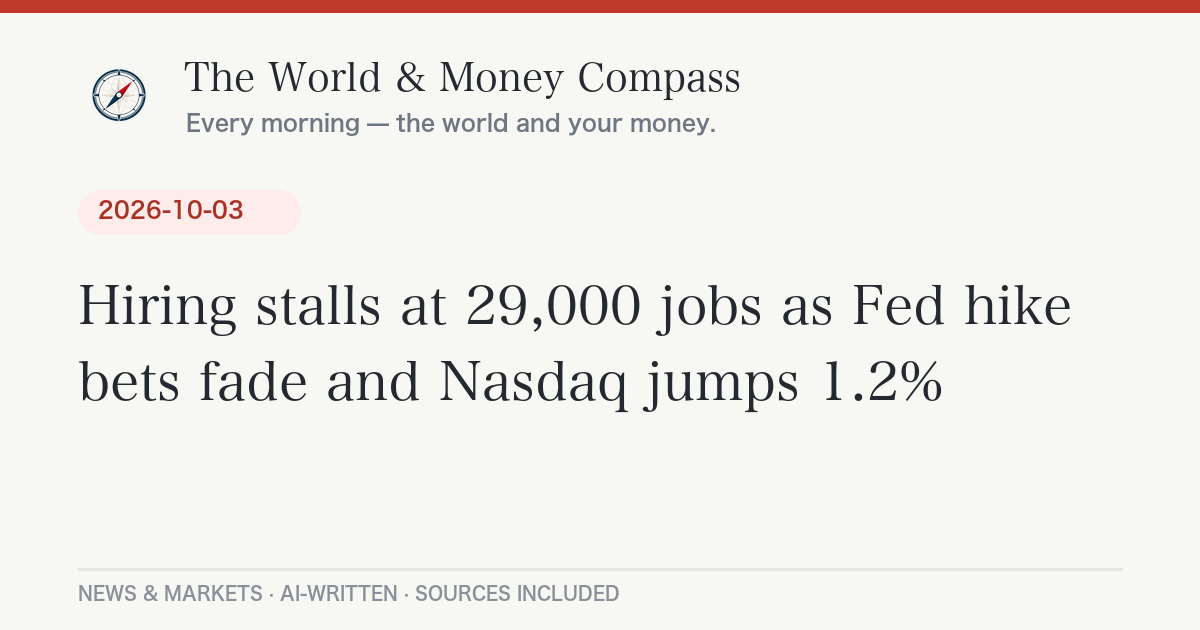
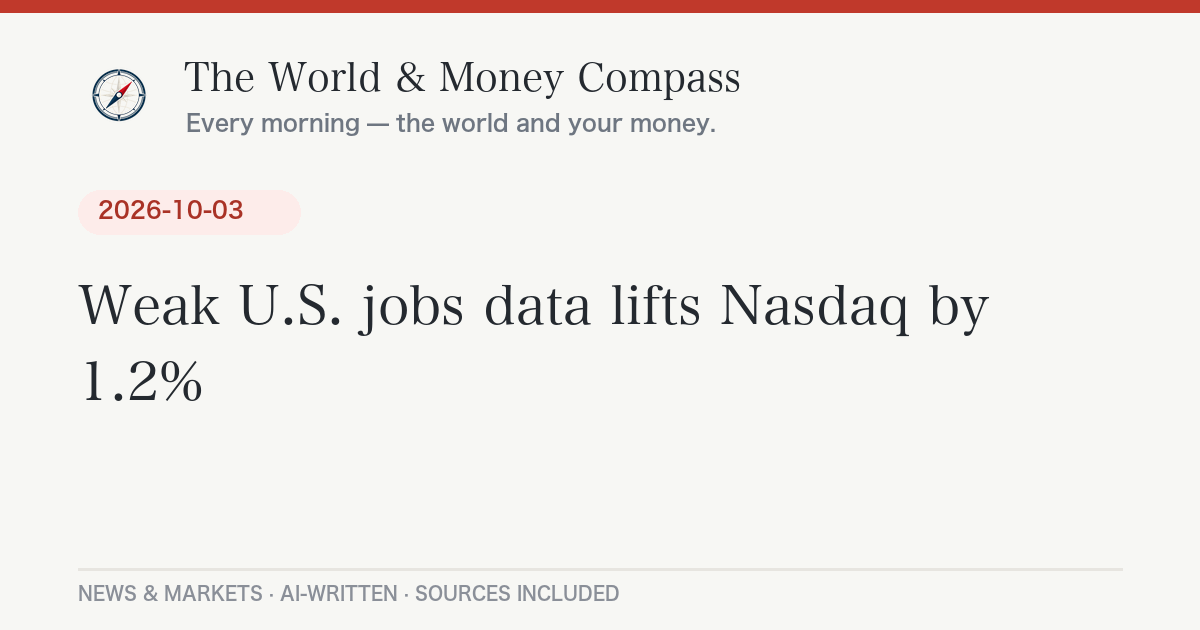
Daily briefing 2026-10-05

Changed region(s): [[0.0617, 0.4524, 0.8942, 0.5429], [0.0617, 0.573, 0.8017, 0.6635]]

diff --git a/_posts/2026-10-05-daily-briefing.md b/_posts/2026-10-05-daily-briefing.md
@@ -1,0 +1,106 @@
+---
+layout: post
+lang: ja
+title: "ブラジル大統領選は決選投票へ、ボルソナロ氏が首位｜10月5日のニュースとお金"
+date: 2026-10-05 07:43:22 +0900
+categories: [ニュース, 経済]
+headline: "ブラジル大統領選は決選投票へ、ボルソナロ氏が首位"
+permalink: /2026/10/05/daily-briefing/
+---
+
+## 今日のポイント
+
+4日に投票があったブラジル大統領選は、右派のフラビオ・ボルソナロ上院議員が開票でルラ大統領をリードしたものの、過半数には届かず、25日の決選投票にもつれこむ見通しです。中東ではホルムズ海峡周辺でタンカーへの攻撃が週末も続き、週明けの原油先物は小幅高で始まりました。日本ではきょう臨時国会が召集され、高市首相の所信表明演説が行われます。
+
+## 今日の羅針盤（Compass Insight）
+
+週末のニュースを並べると、「政治の不確実性」が世界中で同時に高まっていることがわかります。ブラジルは3週間後の決選投票まで先が見えず、スペインではサンチェス首相が解散・総選挙を検討し、米国は11月の中間選挙を前にイランとの対立が長引いています。こうした局面では、マーケットは「どちらに決まるか」よりも「決まらない期間」そのものを嫌い、通貨や原油の値動きが荒くなりやすくなります。
+
+家計の目線で見ると、いちばん身近なのは原油です。北海ブレントは1バレル100ドルを超えたままで、イラン側は自らの条件が満たされない限りホルムズ海峡を開かないと繰り返しています。暖房シーズンを前に、灯油・ガソリン代や電気・ガス料金がすぐには下がりにくい状況と考えておくのが無難です。円も1ドル157円台の円安水準で、輸入品の価格には上向きの力がかかり続けています。
+
+短期では、6日の植田日銀総裁の講演で追加利上げに前向きな発言が出るか、そして米国のISM非製造業景況指数とFOMC議事要旨に注目です。日経平均は節目の7万円が視野に入る一方、米長期金利は5%台と高く、株高と金利高が同時に進む「ねじれ」が続いています。中長期では、ブラジル決選投票の結果が新興国通貨の流れを、米・イラン関係の行方が原油価格を左右する可能性があります。
+
+## 今日のニュース
+
+### 日本
+
+- **きょう臨時国会召集、高市首相が所信表明**：臨時国会は5日に召集され、会期は12月12日までの69日間。首相の所信表明演説は召集日当日に行われ、各党の代表質問は7〜9日の予定です（[山陰中央新報](https://www.sanin-chuo.co.jp/articles/-/1088585)）。食料品の消費税率を引き下げる法案など21本の法案が提出される見込みです（[NHK](https://news.web.nhk/newsweb/na/nd-20261001de53589)）。
+- **那覇のホテル女性遺体、強盗殺人容疑で米海兵隊員を逮捕**：沖縄県警は4日、那覇市のホテルで3日未明に女性（39）を殺害し財布などを奪ったとして、米軍普天間基地所属の海兵隊上等兵（20）を強盗殺人容疑で逮捕しました。容疑者は「私は知りません」と否認しています（[時事ドットコム](https://www.jiji.com/jc/article?k=2026100400094&g=soc)／[NHK](https://news.web.nhk/newsweb/na/nd-20261004de54172)）。日米地位協定や基地負担をめぐる議論が再燃しそうです。
+- **台風27号、小笠原近海で高波に警戒**：大型で強い台風27号は北上して週明けに小笠原諸島に最も近づく見込みで、4日以降の高波に警戒が呼びかけられています（[NHK](https://news.web.nhk/newsweb/na/nd-20261003de54005)）。
+
+### 世界
+
+- **ブラジル大統領選、決選投票へ**：開票が約65%進んだ時点で、フラビオ・ボルソナロ氏が有効票の49.58%、ルラ大統領が42.25%となり、どちらも当選に必要な過半数に届きませんでした（[Wikipedia：2026 Brazilian general election](https://en.wikipedia.org/wiki/2026_Brazilian_general_election)）。決選投票は10月25日に行われます（[Latin Times](https://www.latintimes.com/live-lula-vs-flavio-bolsonaro-what-tonights-first-round-results-brazil-could-mean-oct-25-599811)）。開票序盤はボルソナロ氏の地盤である南部の集計が早く、ルラ氏が強い北東部の集計は遅れる傾向があったため、最終的な差はこれより縮む可能性があります（[Rio Times](https://www.riotimesonline.com/brazil-election-first-round-results-lula-flavio-2026)）。
+- **ホルムズ海峡周辺、週末もタンカー被弾**：オマーンとイラン近海で週末に少なくとも2隻が被弾しました。イランのガリバフ国会議長は、米国の「侵略行為」の停止、港湾の海上封鎖の解除、凍結資産の返還といった条件が満たされない限り、ホルムズ海峡は再開しないと述べています（[CNBC](https://www.cnbc.com/2026/10/04/more-tankers-struck-in-gulf-waters-as-iran-reiterates-conditions.html)）。米国は3隻目の空母打撃群と海兵隊2,000人を中東へ向かわせています（[Northeast Times](https://northeasttimes.com/2026/10/01/u-s-sends-carrier-group-and-2-000-marines-toward-middle-east-as-tanker-is-hit/)）。
+
+### アメリカ
+
+- **最高裁がきょう新会期入り、初日は気候変動訴訟**：連邦最高裁は5日、コロラド州ボルダー郡などが石油大手サンコアを訴えた気候変動訴訟の口頭弁論で新会期を始めます。会期中には銃規制、信教の自由、選挙法などの重要案件も控えています（[米最高裁 10月の弁論日程](https://www.supremecourt.gov/oral_arguments/argument_calendars/MonthlyArgumentCalOctober2026.pdf)／[Federalist Society](https://fedsoc.org/events/supreme-court-preview-what-is-in-store-for-october-term-2026)）。
+- **雇用の伸びが鈍化、利上げ観測が後退**：2日発表の9月雇用統計では、非農業部門の雇用者数が2万9,000人増にとどまり、失業率は4.2%に上がりました。これで近い時期の利上げ観測が弱まった一方、10年国債利回りは5.28%と高止まりしています（[Vista Partners](https://vistapglobal.com/weekly-market-summary-october-2-2026-stocks-finish-higher-as-soft-jobs-data-reframes-fed-outlook-amd-avgo-f-googl-hpp-lpl-nvda-ser-soc-tsla/)）。
+
+### ヨーロッパ
+
+- **キーウの橋に4日連続の攻撃**：ロシア軍は4日、ドニプロ川にかかる北橋を再びドローンで攻撃し、路面と暖房用の配管が損傷して市内の一部で温水の供給が止まりました（[Kyiv Independent](https://kyivindependent.com/russia-targets-kyiv-bridges-for-fourth-consecutive-day-hits-northern-bridge/)）。ゼレンスキー大統領によると、ロシアはこの1週間でドローン1,900機超、誘導爆弾1,700発、ミサイル25発を使ったとしています（同）。
+- **スペイン、サンチェス首相が解散を検討**：議会が政府の住宅対策の政令2本を否決したことを受け、サンチェス首相は4日、閣僚や与党幹部と協議しました。すぐに解散すれば最短で11月29日投票となり、その場合は5日（月）中に決断を表明する必要があります（[Euronews](https://www.euronews.com/2026/10/04/sanchez-in-talks-with-coalition-partners-on-reflection-day-will-he-call-elections-in-spain)）。
+
+## 経済とお金の動き
+
+### 世界の経済と原油・相場
+
+株価は10月2日（金）の終値と前日比です。原油は週明け5日朝（日本時間）の先物価格と、2日の清算値からの変化です。
+
+| 指標 | 値 | 前日比 |
+|---|---|---|
+| 日経平均株価（10/2） | [68,309.46円](https://kabutan.jp/news/marketnews/?b=n202610020940) | <span class="chg-down">-647.26円（-0.94%）</span> |
+| NYダウ（10/2） | [51,176.96ドル](https://finance.yahoo.com/quote/%5EDJI/) | <span class="chg-up">+250.40ドル（+0.49%）</span> |
+| S&P500（10/2） | [7,722.72](https://finance.yahoo.com/quote/%5EGSPC/) | <span class="chg-up">+56.27（+0.73%）</span> |
+| ナスダック総合（10/2） | [27,190.86](https://finance.yahoo.com/quote/%5EIXIC/) | <span class="chg-up">+319.26（+1.19%）</span> |
+| WTI原油（10/5朝） | [91.31ドル/バレル](https://finance.yahoo.com/quote/CL=F/) | <span class="chg-up">+0.20ドル</span> |
+| 北海ブレント原油（10/5朝） | [102.95ドル/バレル](https://finance.yahoo.com/quote/BZ=F/) | <span class="chg-up">+0.70ドル</span> |
+| ドル円（ECB参照値、10/2） | [157.67円](https://api.frankfurter.app/latest?from=USD&to=JPY) | 円安水準が続く |
+
+週明けの原油先物は、ホルムズ海峡周辺での週末のタンカー攻撃を受けて小幅高で始まりました。前週は各国の石油備蓄放出でWTIが週間で下落したものの、ブレントは100ドル台を維持しており、「備蓄放出で上値は抑えられるが、地政学リスクで下がりきらない」構図が続いています。
+
+### アメリカの経済
+
+9月雇用統計が予想を下回る弱さだったことで、FRBの利上げ観測が後退し、金曜日はナスダックを中心にハイテク株が買われました。一方で10年国債利回りは5.28%と、財政やインフレへの懸念から高止まりしています（[Vista Partners](https://vistapglobal.com/weekly-market-summary-october-2-2026-stocks-finish-higher-as-soft-jobs-data-reframes-fed-outlook-amd-avgo-f-googl-hpp-lpl-nvda-ser-soc-tsla/)）。今週は5日に9月のISM非製造業景況指数、日本時間8日未明に9月FOMCの議事要旨、9日にミシガン大学消費者マインド指数（速報）が出ます（[外為どっとコム](https://www.gaitame.com/media/entry/2026/10/04/060300)）。
+
+### 日本の経済
+
+日経平均は2日、前日までの急伸の反動で利益確定売りが出て3日ぶりに反落しました（[株探](https://kabutan.jp/news/marketnews/?b=n202610020940)）。ソフトバンクグループ1銘柄で約316円分押し下げています（[財経新聞](https://www.zaikei.co.jp/article/20261002/872180.html)）。今週は節目の7万円回復が期待される一方、過熱感への警戒もあります（[ダイヤモンドZAi](https://diamond.jp/zai/articles/-/1073651)）。6日には植田日銀総裁の講演があり、物価の上振れへの警戒や追加利上げに前向きな姿勢が示されれば、円買いにつながる可能性があります（[外為どっとコム](https://www.gaitame.com/media/entry/2026/10/02/173855)）。9月の東京都区部の消費者物価は前年比2.7%上昇と予想を上回っており、日銀の判断材料になりそうです（[外為どっとコム](https://www.gaitame.com/media/entry/2026/10/04/060300)）。
+
+## 今日の注目銘柄・セクター
+
+- **ブラジル関連（ブラジル株・レアル）**：選挙前の世論調査でボルソナロ氏の支持が伸びると、「政権交代なら財政の引き締めが進む」との期待からボベスパ指数が上がり、レアル安に備えるヘッジ需要も6年ぶりの低水準に下がっていました（[Bloomberg](https://www.bloomberg.com/news/articles/2026-09-10/traders-unwind-brazil-real-hedges-as-election-seen-fueling-rally)／[Trading Economics](https://tradingeconomics.com/brazil/stock-market/news/582909)）。決選投票までの3週間は、世論調査のたびに相場が振れやすくなりそうです。
+- **テスラ**：7〜9月期の納車台数が48万6,532台と、市場予想（46万1,000〜46万3,000台）を上回りました（[Vista Partners](https://vistapglobal.com/weekly-market-summary-october-2-2026-stocks-finish-higher-as-soft-jobs-data-reframes-fed-outlook-amd-avgo-f-googl-hpp-lpl-nvda-ser-soc-tsla/)）。
+- **米半導体・大型ハイテク（エヌビディア、ブロードコム、AMD、アルファベット）**：雇用統計の弱さで利上げ観測が後退し、金利に敏感なハイテク株に買いが入りました（同）。
+- **ソフトバンクグループ**：2日の日経平均の下げを1銘柄で約316円分押し下げ、指数への影響の大きさがあらためて示されました（[財経新聞](https://www.zaikei.co.jp/article/20261002/872180.html)）。
+
+*※特定銘柄の売買を推奨するものではありません。投資判断はご自身の責任で。*
+
+## まとめ：注目の3つ
+
+1. **ブラジル決選投票（25日）までの3週間**：世論調査ごとにレアルやブラジル株が振れやすく、新興国全体のリスク選好にも影響しうる。
+2. **ホルムズ海峡と原油**：イランは条件付きでしか海峡を開かない構え。ブレント100ドル台が続けば、冬場の光熱費に響く。
+3. **植田総裁の講演（6日）と臨時国会**：日銀の利上げ姿勢と、食料品の消費税引き下げ法案の行方が、円相場と家計の両方に関わる。
+
+---
+<div class="post-sources" markdown="1">
+
+**出典：**
+- [Wikipedia・2026 Brazilian general election](https://en.wikipedia.org/wiki/2026_Brazilian_general_election)
+- [Latin Times・Lula vs. Flávio Bolsonaro first-round results](https://www.latintimes.com/live-lula-vs-flavio-bolsonaro-what-tonights-first-round-results-brazil-could-mean-oct-25-599811)
+- [Rio Times・Brazil election first-round results](https://www.riotimesonline.com/brazil-election-first-round-results-lula-flavio-2026)
+- [CNBC・More tankers struck as Iran reiterates conditions](https://www.cnbc.com/2026/10/04/more-tankers-struck-in-gulf-waters-as-iran-reiterates-conditions.html)
+- [時事ドットコム・ホテル女性遺体、米海兵隊の男逮捕](https://www.jiji.com/jc/article?k=2026100400094&g=soc)
+- [山陰中央新報・臨時国会10月5日召集決定](https://www.sanin-chuo.co.jp/articles/-/1088585)
+- [Kyiv Independent・Russia targets Kyiv bridges for fourth consecutive day](https://kyivindependent.com/russia-targets-kyiv-bridges-for-fourth-consecutive-day-hits-northern-bridge/)
+- [Euronews・Sánchez in talks with coalition partners](https://www.euronews.com/2026/10/04/sanchez-in-talks-with-coalition-partners-on-reflection-day-will-he-call-elections-in-spain)
+- [Vista Partners・Weekly Market Summary October 2, 2026](https://vistapglobal.com/weekly-market-summary-october-2-2026-stocks-finish-higher-as-soft-jobs-data-reframes-fed-outlook-amd-avgo-f-googl-hpp-lpl-nvda-ser-soc-tsla/)
+- [株探・日経平均 大引け（10月2日）](https://kabutan.jp/news/marketnews/?b=n202610020940)
+- [外為どっとコム・10/5週のイベント予定](https://www.gaitame.com/media/entry/2026/10/04/060300)
+- 市場データ: [frankfurter API](https://api.frankfurter.app/) ／ Yahoo Finance ほか
+
+*本記事は公開情報をもとに作成しています。*
+
+</div>

diff --git a/_posts/2026-10-05-daily-briefing-en.md b/_posts/2026-10-05-daily-briefing-en.md
@@ -1,0 +1,51 @@
+---
+layout: post
+lang: en
+title: "Brazil heads to a runoff as Flávio Bolsonaro leads Lula — October 5, 2026"
+date: 2026-10-05 07:43:22 +0900
+headline: "Brazil heads to a runoff as Flávio Bolsonaro leads Lula"
+permalink: /2026/10/05/daily-briefing/
+---
+
+## Top U.S. Stories
+
+- **Brazil's election goes to a runoff — with a Trump ally in front.** With about 65% of the vote counted, Sen. Flávio Bolsonaro had 49.58% of valid votes to President Lula's 42.25%, short of the 50% needed to win outright ([Wikipedia](https://en.wikipedia.org/wiki/2026_Brazilian_general_election)). The runoff is set for October 25 ([Latin Times](https://www.latintimes.com/live-lula-vs-flavio-bolsonaro-what-tonights-first-round-results-brazil-could-mean-oct-25-599811)). Lula's northeastern strongholds were counted later than Bolsonaro's southern base, so the final gap may narrow ([Rio Times](https://www.riotimesonline.com/brazil-election-first-round-results-lula-flavio-2026)).
+  *Why it matters:* Three more weeks of uncertainty in Latin America's largest economy can move the real, Brazilian stocks and broader emerging-market sentiment.
+- **More tankers hit near Hormuz as Iran restates its terms.** At least two vessels were struck over the weekend near Oman and Iran. Iran's parliament speaker said the strait will not reopen unless the U.S. halts its "aggression," lifts the naval blockade of Iranian ports and releases Iranian assets ([CNBC](https://www.cnbc.com/2026/10/04/more-tankers-struck-in-gulf-waters-as-iran-reiterates-conditions.html)). A third U.S. carrier strike group and 2,000 Marines are heading to the region ([Northeast Times](https://northeasttimes.com/2026/10/01/u-s-sends-carrier-group-and-2-000-marines-toward-middle-east-as-tanker-is-hit/)).
+  *Why it matters:* Brent is still above $100 a barrel, keeping pressure on gasoline and heating costs heading into winter.
+- **The Supreme Court opens its new term today.** The first argument is Suncor Energy v. Boulder County, a climate-liability case against oil companies ([Supreme Court calendar](https://www.supremecourt.gov/oral_arguments/argument_calendars/MonthlyArgumentCalOctober2026.pdf)). The term also includes cases on guns, religious liberty and election law ([Federalist Society](https://fedsoc.org/events/supreme-court-preview-what-is-in-store-for-october-term-2026)).
+- **A soft jobs report cooled Fed hike talk.** September payrolls rose just 29,000 and unemployment ticked up to 4.2%, while the 10-year Treasury yield held at 5.28% ([Vista Partners](https://vistapglobal.com/weekly-market-summary-october-2-2026-stocks-finish-higher-as-soft-jobs-data-reframes-fed-outlook-amd-avgo-f-googl-hpp-lpl-nvda-ser-soc-tsla/)).
+  *Why it matters:* Slower hiring eases the case for another rate hike, but high long-term yields still keep mortgage and borrowing costs elevated.
+- **A U.S. Marine was arrested in a killing in Okinawa.** Japanese police arrested a 20-year-old lance corporal based at Futenma on suspicion of robbery-murder after a woman was found dead in a Naha hotel; he denies the charge ([Jiji Press](https://www.jiji.com/jc/article?k=2026100400094&g=soc)).
+
+## Compass Insight
+
+The common thread this weekend is political uncertainty arriving all at once: Brazil faces a three-week runoff, Spain's prime minister is weighing a snap election, and Washington's standoff with Tehran drags on ahead of the midterms. Markets usually dislike the waiting period more than any particular outcome, which tends to show up first in currencies and oil. In the short term, watch the ISM services index today, Bank of Japan Governor Ueda's speech on Tuesday and this week's FOMC minutes. Over the longer run, the key tension is that stocks keep rising while long-term yields stay above 5% — a gap that cannot last forever. How Brazil's runoff and the Hormuz standoff resolve will help decide which side gives way.
+
+## Markets
+
+As of Friday's close (Oct. 2), the [S&P 500](https://finance.yahoo.com/quote/%5EGSPC/) rose 0.73% to 7,722.72, the [Dow](https://finance.yahoo.com/quote/%5EDJI/) gained 0.49% to 51,176.96 and the [Nasdaq Composite](https://finance.yahoo.com/quote/%5EIXIC/) jumped 1.19% to 27,190.86. Oil futures opened the week slightly higher early Monday Tokyo time: [WTI](https://finance.yahoo.com/quote/CL=F/) at $91.31 and [Brent](https://finance.yahoo.com/quote/BZ=F/) at $102.95. The dollar stood at [157.67 yen](https://api.frankfurter.app/latest?from=USD&to=JPY) (ECB reference rate, Oct. 2). Japan's Nikkei slipped 0.94% to [68,309.46](https://kabutan.jp/news/marketnews/?b=n202610020940) on Friday after two strong sessions.
+
+## Stocks in Focus
+
+- **Tesla**: Q3 deliveries of 486,532 beat consensus of roughly 461,000–463,000 ([Vista Partners](https://vistapglobal.com/weekly-market-summary-october-2-2026-stocks-finish-higher-as-soft-jobs-data-reframes-fed-outlook-amd-avgo-f-googl-hpp-lpl-nvda-ser-soc-tsla/)).
+- **Nvidia, Broadcom, AMD, Alphabet**: rate-sensitive tech led Friday's gains as hike expectations faded (same source).
+- **Brazilian assets**: before the vote, Bolsonaro's rise in polls had lifted the Ibovespa and pushed demand for hedges against a weaker real to the lowest since 2020 ([Bloomberg](https://www.bloomberg.com/news/articles/2026-09-10/traders-unwind-brazil-real-hedges-as-election-seen-fueling-rally)).
+
+---
+<div class="post-sources" markdown="1">
+
+**Sources:**
+- [Wikipedia — 2026 Brazilian general election](https://en.wikipedia.org/wiki/2026_Brazilian_general_election)
+- [Latin Times — Lula vs. Flávio Bolsonaro first-round results](https://www.latintimes.com/live-lula-vs-flavio-bolsonaro-what-tonights-first-round-results-brazil-could-mean-oct-25-599811)
+- [Rio Times — Brazil election first-round results](https://www.riotimesonline.com/brazil-election-first-round-results-lula-flavio-2026)
+- [CNBC — More tankers struck as Iran reiterates conditions](https://www.cnbc.com/2026/10/04/more-tankers-struck-in-gulf-waters-as-iran-reiterates-conditions.html)
+- [Supreme Court — October 2026 argument calendar](https://www.supremecourt.gov/oral_arguments/argument_calendars/MonthlyArgumentCalOctober2026.pdf)
+- [Vista Partners — Weekly Market Summary, October 2, 2026](https://vistapglobal.com/weekly-market-summary-october-2-2026-stocks-finish-higher-as-soft-jobs-data-reframes-fed-outlook-amd-avgo-f-googl-hpp-lpl-nvda-ser-soc-tsla/)
+- [Jiji Press — U.S. Marine arrested in Naha hotel case](https://www.jiji.com/jc/article?k=2026100400094&g=soc)
+- [Bloomberg — Traders unwind Brazil real hedges](https://www.bloomberg.com/news/articles/2026-09-10/traders-unwind-brazil-real-hedges-as-election-seen-fueling-rally)
+- Market data: [frankfurter API](https://api.frankfurter.app/) / Yahoo Finance
+
+</div>
+
+*Auto-generated and AI-written. Not investment advice.*
